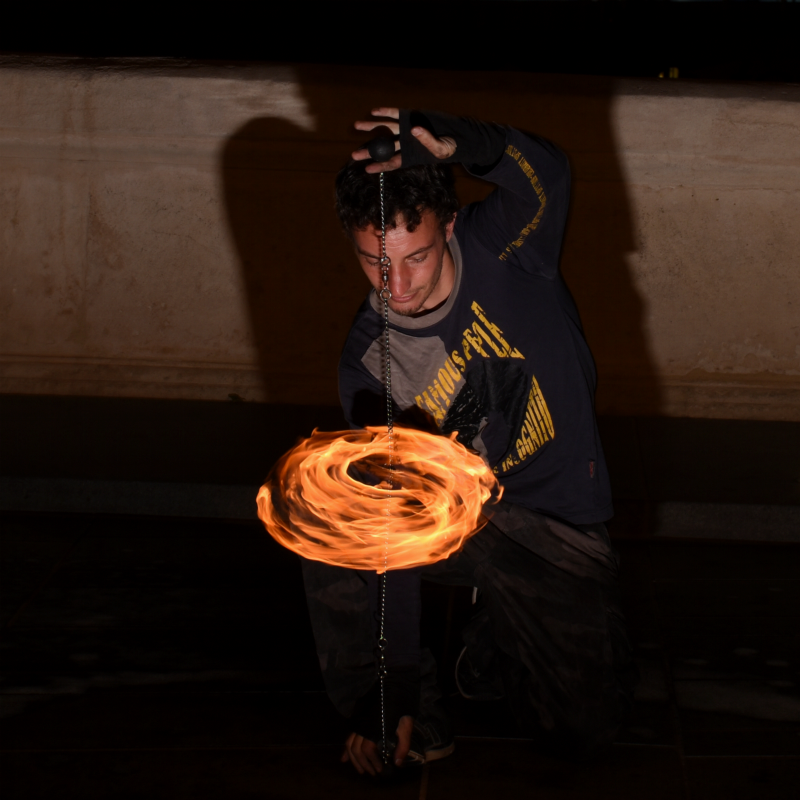
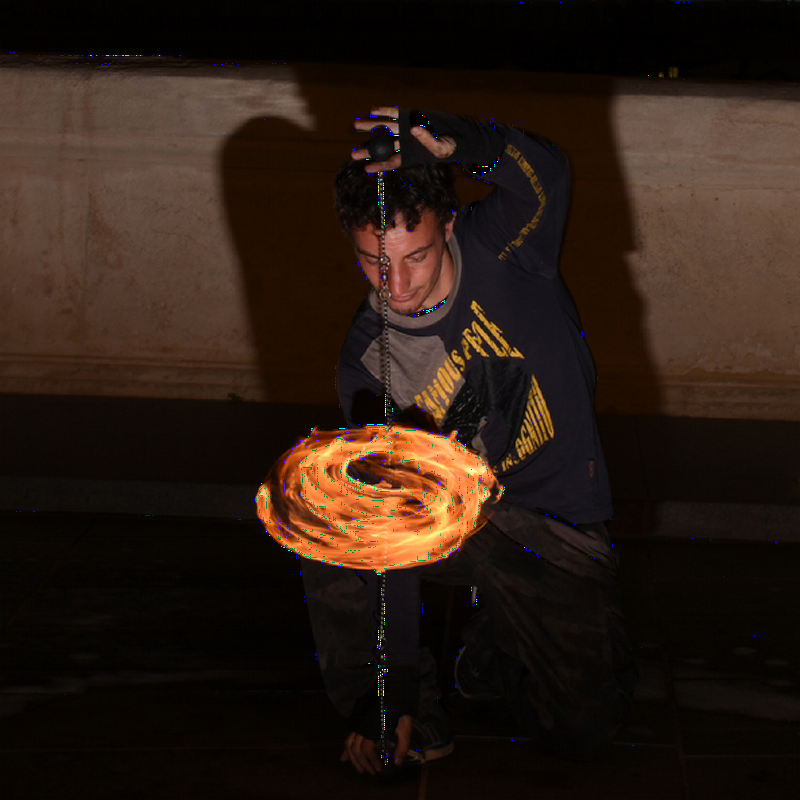
removed bicubic method for photos, added islogged for login and contact, uploaded some photos, adjusted gallery title.

diff --git a/js/gallery.js b/js/gallery.js
@@ -3,12 +3,12 @@ let fireGallery = document.querySelector('#fire-prop-container');
 let backButton = document.querySelector('.back-scroll');
 let forwardButton = document.querySelector('.forward-scroll');
 
-fireGallery.addEventListener('wheel', (evt) => {
+/* fireGallery.addEventListener('wheel', (evt) => {
     evt.preventDefault();
     fireGallery.scrollLeft += evt.deltaY;
     fireGallery.style.scrollBehavior = 'auto';
 
-});
+}); */
 
 backButton.addEventListener('click', () => {
     fireGallery.scrollLeft -= 300;
@@ -29,13 +29,13 @@ let ledGallery = document.querySelector('#led-prop-container');
 let backBtn = document.querySelector('.back-button');
 let forwardBtn = document.querySelector('.forward-button');
 
-ledGallery.addEventListener('wheel', (evt) => {
+/* ledGallery.addEventListener('wheel', (evt) => {
     evt.preventDefault();
     ledGallery.scrollLeft += evt.deltaY;
     ledGallery.style.scrollBehavior = 'auto';
 
 });
-
+ */
 backBtn.addEventListener('click', () => {
     ledGallery.scrollLeft -= 300;
     ledGallery.style.scrollBehavior = 'smooth';

diff --git a/asset/css/styles.css b/asset/css/styles.css
@@ -1917,7 +1917,6 @@ header #flash-message-header #error-message {
   #agre-photo-section #page-title {
     font-family: "Kanit", sans-serif;
     font-size: 5em;
-    margin: 1em;
   }
   #agre-photo-section #agre-photo-container {
     display: grid;

diff --git a/asset/css/agrePhoto.scss b/asset/css/agrePhoto.scss
@@ -28,7 +28,7 @@
         #page-title {
             font-family: "Kanit", sans-serif;
             font-size: 5em;
-            margin: 1em;
+            // margin: 1em;
         }
 
         #agre-photo-container {

diff --git a/asset/css/agrePhoto.css b/asset/css/agrePhoto.css
@@ -23,7 +23,6 @@
   #agre-photo-section #page-title {
     font-family: "Kanit", sans-serif;
     font-size: 5em;
-    margin: 1em;
   }
   #agre-photo-section #agre-photo-container {
     display: grid;

diff --git a/ctrl/agre/add-agre.php b/ctrl/agre/add-agre.php
@@ -73,7 +73,7 @@ class AddAgrePhoto extends Ctrl
             //TODO Need to add algorithm to check for photo width and height and change it accordingly
             //do not add width and height because it will affect dimension and quality
             //serveur petit et grand , petit pour la vignette
-            $img = imagescale($imgOriginal, 800, -1, IMG_BICUBIC);
+            $img = imagescale($imgOriginal, 800, -1);
 
             $imgSharpened = imagesetinterpolation($img, IMG_SINC);
 

diff --git a/ctrl/contact/contact-display.php b/ctrl/contact/contact-display.php
@@ -3,7 +3,10 @@ require_once $_SERVER['DOCUMENT_ROOT'] . '/ctrl/ctrl.php';
 
 class ContactDisplay extends Ctrl
 {
-    function do(): void {}
+    function do(): void
+    {
+        $isLogged = $this->isUserLogged();
+    }
     function renderView(): void
     {
         $args = $this->viewArgs;

diff --git a/ctrl/login/login-display.php b/ctrl/login/login-display.php
@@ -3,7 +3,10 @@ require_once $_SERVER['DOCUMENT_ROOT'] . '/ctrl/ctrl.php';
 
 class LoginDisplay extends Ctrl
 {
-    function do(): void {}
+    function do(): void
+    {
+        $isLogged = $this->isUserLogged();
+    }
     function renderView(): void
     {
         $args = $this->viewArgs;

diff --git a/cfg/config-prod.php b/cfg/config-prod.php
@@ -8,5 +8,5 @@ class ConfigDB
     const PORT = '3306';
     const DBNAME = 'dhadev_ffm';
     const USER = 'dhadev';
-    const PASSWORD = 'xxxxx';
+    const PASSWORD = 'dh_dev_always_24!';
 }
